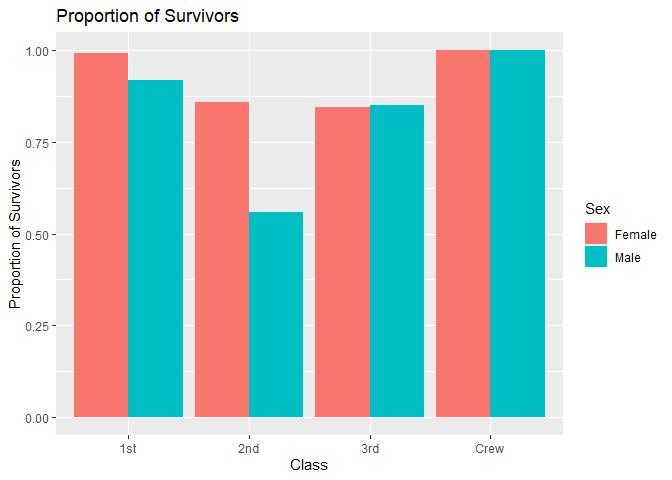
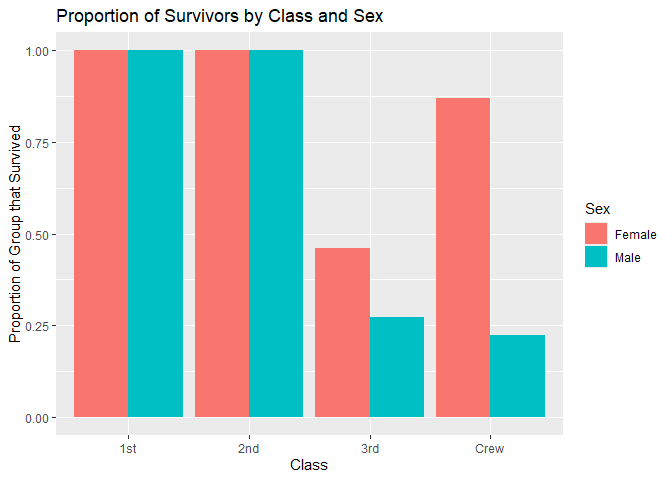
Corrections for challenge 1 with knit

Changed region(s): [[0.125, 0.0938, 0.8125, 0.7188], [0.0, 0.25, 0.0312, 0.7188], [0.3438, 0.0, 0.5625, 0.0625]]

diff --git a/challenges/c01-titanic-assignment.md b/challenges/c01-titanic-assignment.md
@@ -1,7 +1,7 @@
 RMS Titanic
 ================
-(Your name here)
-2020-
+(Suwanee Li)
+2025-4-28
 
 - [Grading Rubric](#grading-rubric)
   - [Individual](#individual)
@@ -159,7 +159,7 @@ df_titanic %>% summarize(total = sum(n))
     how data was retrieved. Such as reported from tickets sold, bodies
 
     collected etc. But still the difference is only about 20 people
-    which is less than 1/100th of the total population.
+    which is more than 1/100th of the total population.
 
 ### **q3** Create a plot showing the count of persons who *did* survive, along with aesthetics for `Class` and `Sex`. Document your observations below.
 
@@ -239,20 +239,19 @@ df_prop
 ### **q4** Replicate your visual from q3, but display `Prop` in place of `n`. Document your observations, and note any new/different observations you make in comparison with q3. Is there anything *fishy* in your plot?
 
 ``` r
-df_prop2 <-
-df_titanic %>%
-  filter(Survived == "Yes") %>%
-  group_by(Class, Sex) %>% 
-  mutate(
-    Total = sum(n),
-    Prop = n / Total
-  )
-ggplot(df_prop2, aes(x = Class, y = Prop, fill = Sex)) +
+df_prop_survived <- df_prop %>%
+  filter(Survived == "Yes")
+
+# Now plot proportion of survivors
+ggplot(df_prop_survived, aes(x = Class, y = Prop, fill = Sex)) +
   geom_col(position = "dodge") +
-  labs(title = "Proportion of Survivors", 
+  labs(title = "Proportion of Survivors by Class and Sex", 
        x = "Class", 
-       y = "Proportion of Survivors")
+       y = "Proportion of Group that Survived")
 ```
+
+    ## Warning: Removed 2 rows containing missing values or values outside the scale range
+    ## (`geom_col()`).
 
 ![](c01-titanic-assignment_files/figure-gfm/q4-task-1.png)<!-- -->
 
@@ -262,14 +261,10 @@ ggplot(df_prop2, aes(x = Class, y = Prop, fill = Sex)) +
 
 - Is there anything *fishy* going on in your plot?
 
-  - I’m noticing it shows that according to this graph it shows that it
-    is close to or nearly all the 1st class female, and crew (either
-    male or female) survived given the amount of them present. Which I
-    think what is going on is the graph is pulling data specifically
-    from the first instance of the higher combination of sex and class
-    to format the graph. So female and male crew children do not exist
-    resulting in 0 survivors for them but proportionally all male and
-    female crew that survived were adults so theyre both 100s.
+  - The proportion after filtering to only survivors. That distorted the
+    math made each bar represent the share of all survivors not the
+    survival rate within each group. So it looked like survival was
+    evenly distributed, even though that’s not true.
 
 - <div>
 
@@ -289,6 +284,31 @@ df_titanic %>%
     Prop = n / Total
   ) %>%
   filter(Survived == "Yes") 
+df_prop2
+```
+
+    ## # A tibble: 16 × 7
+    ## # Groups:   Class, Sex, Age [16]
+    ##    Class Sex    Age   Survived     n Total     Prop
+    ##    <chr> <chr>  <chr> <chr>    <dbl> <dbl>    <dbl>
+    ##  1 1st   Male   Child Yes          5     5   1     
+    ##  2 2nd   Male   Child Yes         11    11   1     
+    ##  3 3rd   Male   Child Yes         13    48   0.271 
+    ##  4 Crew  Male   Child Yes          0     0 NaN     
+    ##  5 1st   Female Child Yes          1     1   1     
+    ##  6 2nd   Female Child Yes         13    13   1     
+    ##  7 3rd   Female Child Yes         14    31   0.452 
+    ##  8 Crew  Female Child Yes          0     0 NaN     
+    ##  9 1st   Male   Adult Yes         57   175   0.326 
+    ## 10 2nd   Male   Adult Yes         14   168   0.0833
+    ## 11 3rd   Male   Adult Yes         75   462   0.162 
+    ## 12 Crew  Male   Adult Yes        192   862   0.223 
+    ## 13 1st   Female Adult Yes        140   144   0.972 
+    ## 14 2nd   Female Adult Yes         80    93   0.860 
+    ## 15 3rd   Female Adult Yes         76   165   0.461 
+    ## 16 Crew  Female Adult Yes         20    23   0.870
+
+``` r
 ggplot(df_prop2, aes(x = Age, y = Prop, fill = Sex)) +
   facet_grid(cols = vars(Class)) + 
   geom_col(position = "dodge") +
@@ -301,6 +321,20 @@ ggplot(df_prop2, aes(x = Age, y = Prop, fill = Sex)) +
     ## (`geom_col()`).
 
 ![](c01-titanic-assignment_files/figure-gfm/q5-task-1.png)<!-- -->
+
+``` r
+ggplot(df_prop2, aes(x = Class, y = Prop, fill = Sex)) +
+  facet_grid(cols = vars(Age)) + 
+  geom_col(position = "dodge") +
+  labs(title = "Proportion of Survivors", 
+       x = "Class", 
+       y = "Proportion of Survivors")
+```
+
+    ## Warning: Removed 2 rows containing missing values or values outside the scale range
+    ## (`geom_col()`).
+
+![](c01-titanic-assignment_files/figure-gfm/q5-task-2.png)<!-- -->
 
 **Observations**:
 
